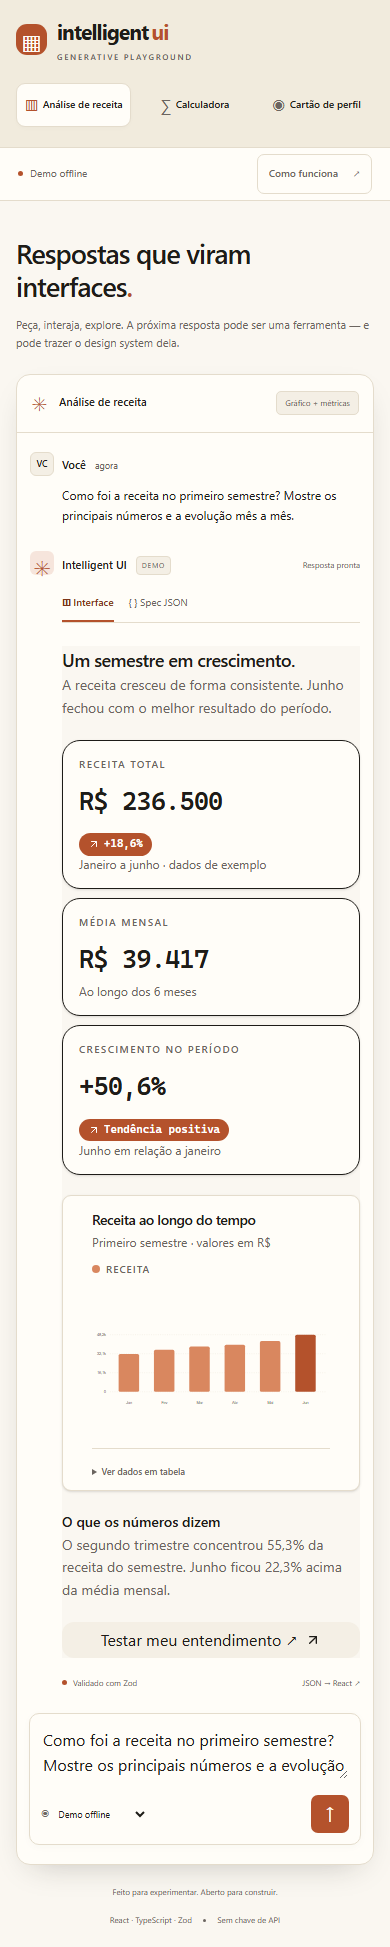
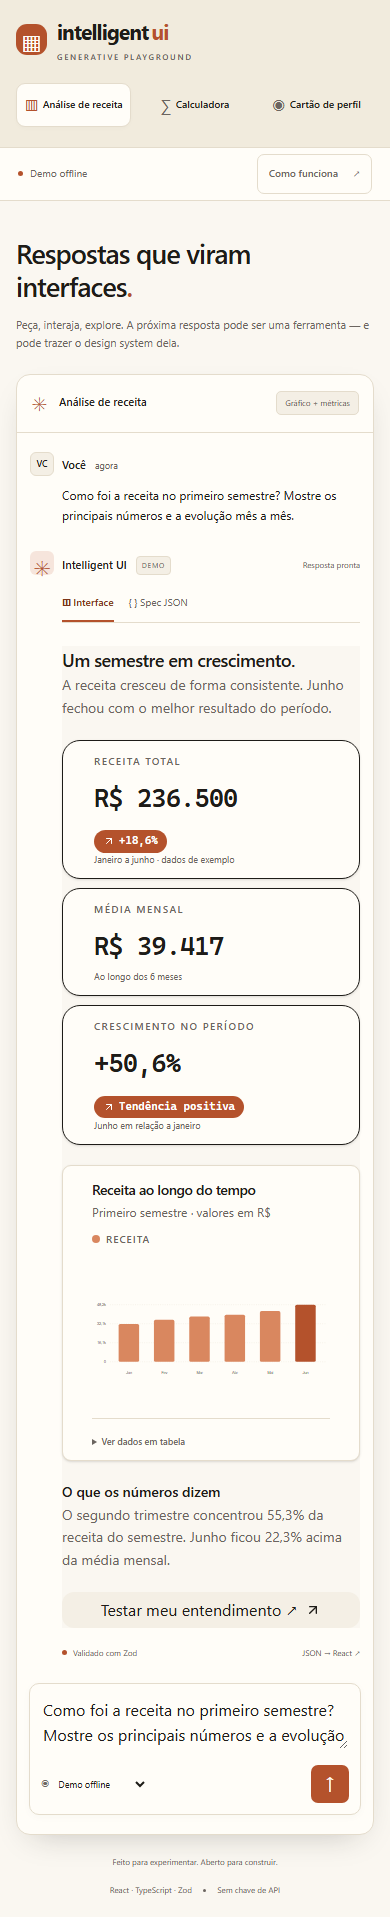
chore: limpa CSS morto da casca e devolve a ancoragem de profundidade ao cartao de metrica
- removidas 10 regras orfas do app.css (markdown, metric-card, metric-trend, chart-legend) que nao
  casavam mais com o markup sobre shadcn; .metric-trend era a origem do contraste 1.14:1 no selo
- .metric-card volta como ancora, agora so para a regra de profundidade (borda grossa + sombra dura
  no Brutal), porque o visual base vem do Card do shadcn
- DESIGN.md documenta a base, o escopo de tokens e a disciplina de contraste
- portoes finais: 66 testes, build 485 kB, pacote 61,77 kB, 4 rotas de captura PASS, auditoria de
  contraste 0 falhas em 5 sistemas

diff --git a/src/styles/app.css b/src/styles/app.css
@@ -96,21 +96,11 @@ h1 > span { color: var(--accent); }
 .ui-stack.vertical { flex-direction: column; }
 .ui-stack.horizontal { flex-direction: row; gap: 11px; }
 .ui-stack.horizontal > * { flex: 1; min-width: 0; }
-.markdown h2 { font-size: 19px; letter-spacing: -.5px; font-weight: 600; margin-bottom: 10px; }
-.markdown p { font-size: 11px; color: var(--muted); line-height: 1.75; overflow-wrap: anywhere; }
-.markdown p strong { color: var(--text); font-size: 11px; }
-.metric-card { border: 1px solid var(--line); border-radius: 9px; padding: 15px 13px 13px; background: var(--surface); position: relative; }
-.metric-card h3 { color: var(--muted); font-size: 7px; letter-spacing: .8px; font-weight: 600; line-height: 1.5; }
 .metric-value { font-size: clamp(19px, 1.8vw, 28px); letter-spacing: -.9px; font-weight: 550; line-height: 1.35; margin: 8px 0 6px; overflow-wrap: anywhere; }
-.metric-trend { font-size: 8px; color: var(--muted); display: inline-block; margin-bottom: 7px; }
-.metric-trend.positive { color: var(--accent-ink); background: var(--accent-soft); padding: 3px 5px; border-radius: 4px; }
-.metric-card p { font-size: 8px; line-height: 1.6; color: var(--muted); }
 .chart-card { border: 1px solid var(--line); border-radius: 9px; padding: 18px 18px 9px; }
 .chart-card figcaption { display: flex; justify-content: space-between; gap: 12px; align-items: center; }
 .chart-card h3 { font-size: 11px; font-weight: 600; }
 .chart-card figcaption p { font-size: 8px; color: var(--muted); margin-top: 6px; }
-.chart-legend { font-size: 8px; color: var(--muted); display: flex; align-items: center; gap: 6px; }
-.chart-legend i { width: 6px; height: 6px; border-radius: 2px; background: var(--accent); }
 .chart-card svg { display: block; width: 100%; margin-top: 12px; }
 .chart-grid { stroke: var(--line); stroke-dasharray: 3 4; stroke-width: 1; }
 .chart-tick, .chart-label { fill: var(--muted); font: 11px sans-serif; }

diff --git a/src/ui/components.tsx b/src/ui/components.tsx
@@ -40,7 +40,7 @@ export function Markdown({ content }: Props<'Markdown'>) {
 }
 
 export function MetricCard(props: Props<'MetricCard'>) {
-  return <Card className="min-w-[168px] flex-1 gap-0 py-4">
+  return <Card className="metric-card min-w-[168px] flex-1 gap-0 py-4">
     <CardHeader className="gap-1 px-4">
       <CardTitle className="text-[10px] font-medium uppercase tracking-[0.14em] text-muted-foreground">{props.label}</CardTitle>
       <div className="metric-value font-mono text-3xl leading-none font-semibold tracking-tight tabular-nums text-card-foreground">{props.value}</div>

diff --git a/DESIGN.md b/DESIGN.md
@@ -7,3 +7,17 @@ O estado inicial gera análise de receita com dados fictícios. Calculadora e fo
 Todos os controles têm rótulos, estados de foco e desabilitado. Gráficos incluem descrição e tabela. Em telas pequenas, as demos viram uma navegação horizontal, os cards empilham e o inspetor sai do fluxo. As transições respeitam `prefers-reduced-motion`.
 
 O parser só publica snapshots JSON completos e validados; enquanto recebe tokens, a interface anterior permanece visível e desabilitada para novas ações. Erros aparecem na própria conversa. A interface não interpreta HTML, scripts, CSS ou expressões do modelo.
+
+## Base de componentes
+
+A UI gerada é montada sobre a base **shadcn/ui** (Radix + Tailwind + CVA, arquivos em `src/components/ui`). O catálogo da spec continua sendo o contrato: nove componentes, props tipadas, nada de HTML livre.
+
+## Tokens e escopo
+
+O design system escreve os tokens do shadcn com **valor literal** no container da superfície (`--color-*`, `--radius-*`, `--font-*`). Sem isso os utilitários do Tailwind resolvem no escopo da raiz e a superfície mistura o sistema da resposta com o da casca — foi um defeito real, medido em 1.01:1 de contraste. A superfície também pinta o próprio fundo, para a resposta aninhar o seu sistema sem contaminar a aplicação.
+
+Todo texto sobre cor cheia usa `readableOn()`, calculado por contraste WCAG. `scripts/audit-contrast.mjs` mede cada elemento com texto nos cinco sistemas e falha se algo ficar abaixo de 4.5:1 — a regra de craft é verificada por número, não por inspeção visual.
+
+## Reatividade
+
+A interface responde ao que foi digitado sem ida ao provider: cálculos, validação e prévias vivem em funções puras (`src/ui/live.ts`) chamadas a cada tecla. O envio ao provider é para quando a pessoa quer que a *resposta* mude. Interações locais emitem eventos com throttle de 180 ms (primeiro na hora, último sempre entregue).
